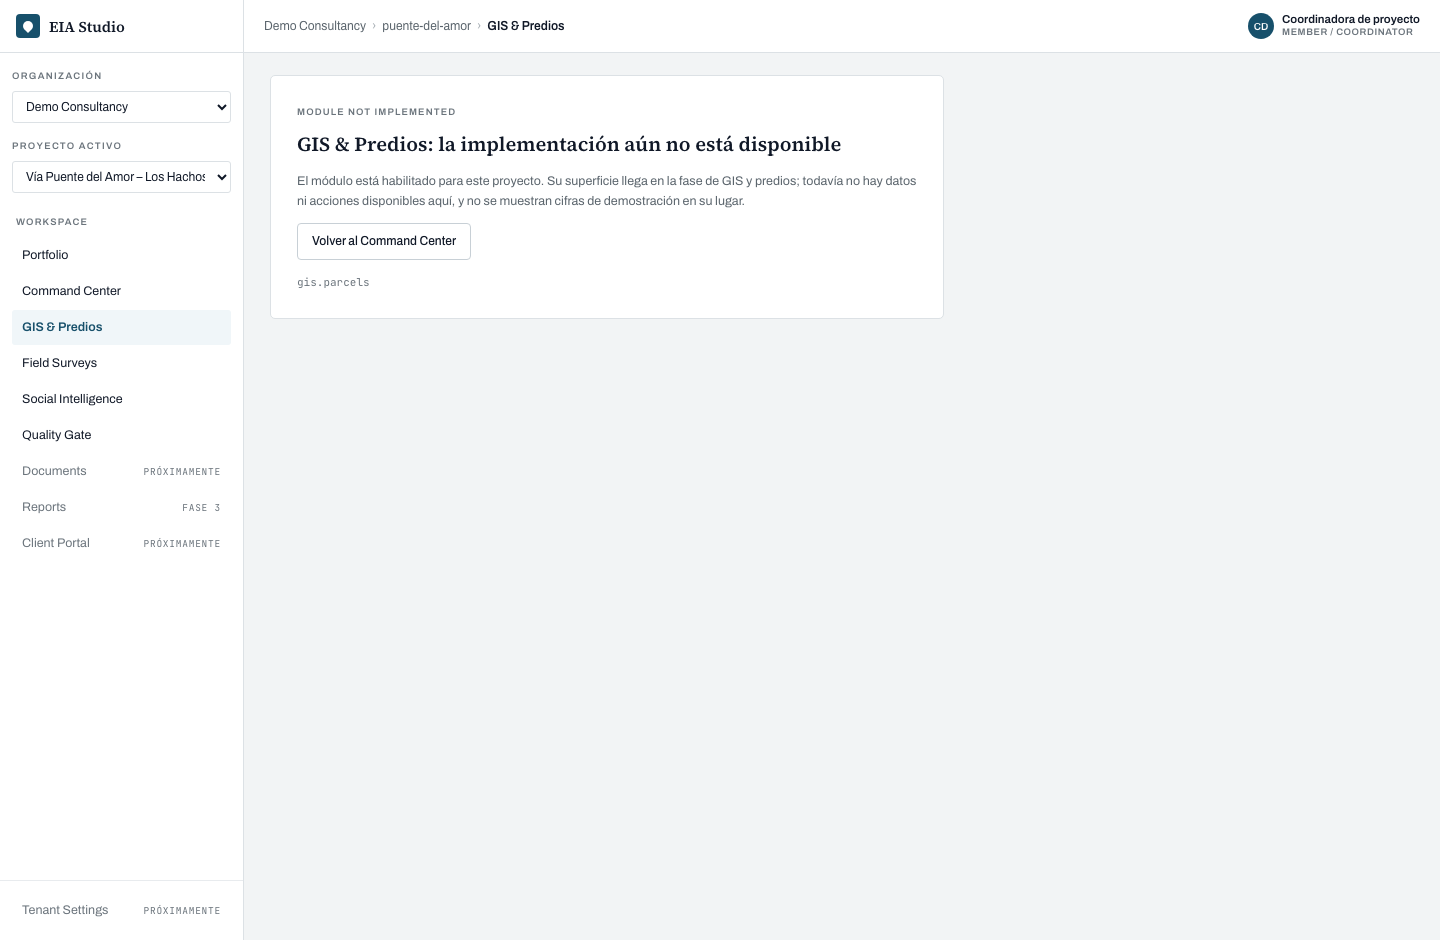
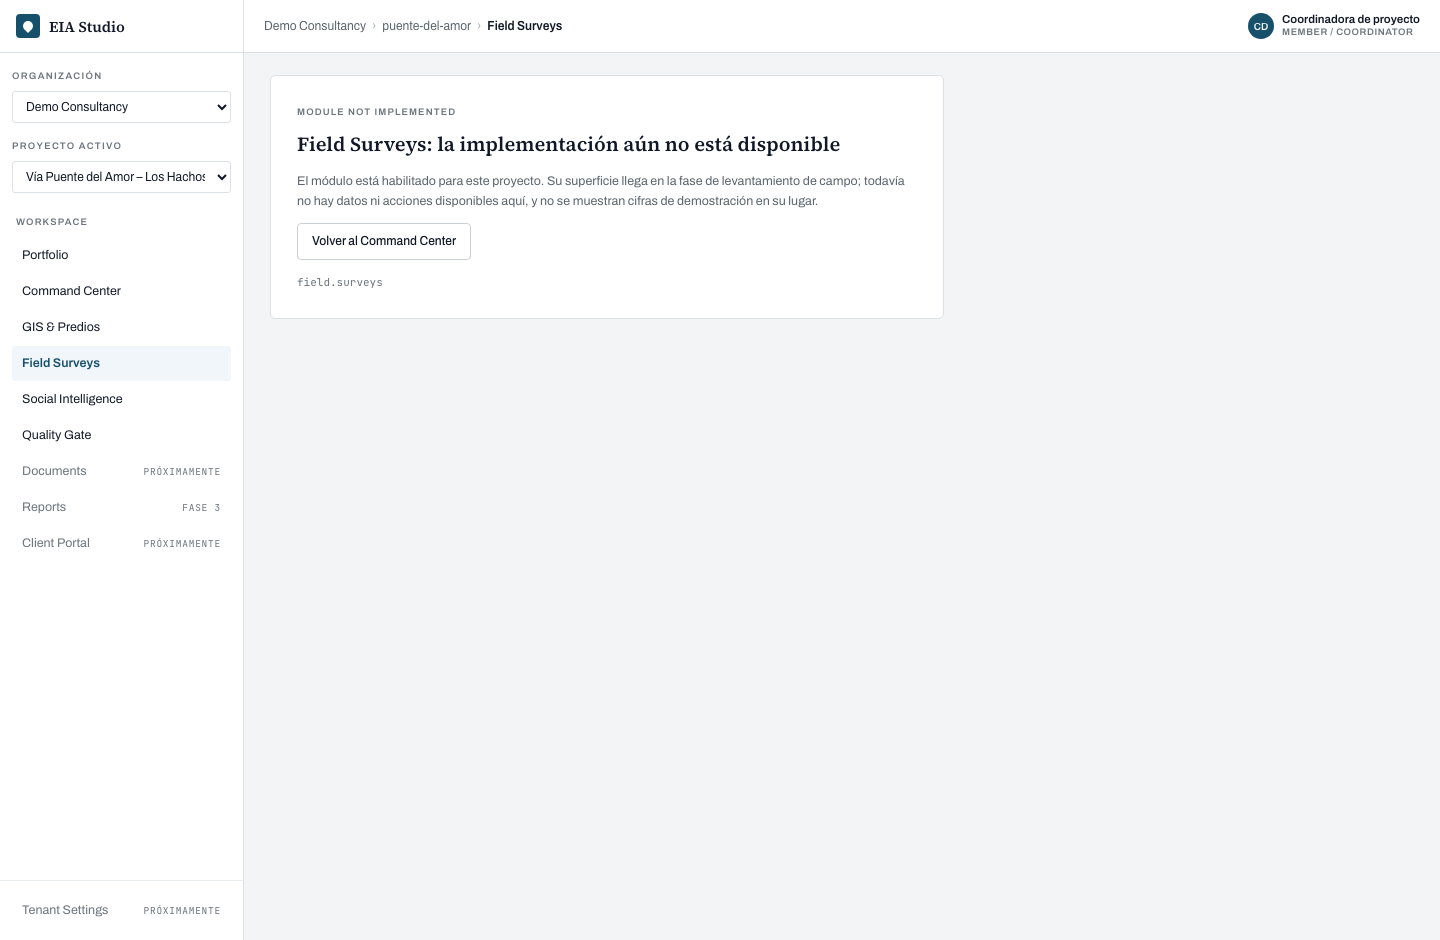
test(testing): add the GIS journey, its accessibility scans and the screenshots
The reviewer's path through the new surfaces, asserted as they would walk it:
Command Center to Explorer, one selection shared by map and table, filters that
move the count coherently, the layer legend saying what each layer is, the Parcel
Workspace and its provenance drawer, and a guessed parcel code answering 404.

One assertion is there to catch a specific future mistake. The historical universe
is 141 parcels and the generator produces 141 polygons; the test pins both badges
on the same screen — REAL_AGGREGATE on the KPI, SYNTHETIC on the territorial
summary — so a change that quietly relabels either one fails rather than shipping a
screen where a demo number reads as a study result.

axe now scans the Explorer and the Workspace. It found two real defects, both fixed
in the surfaces rather than suppressed here: focusable controls inside the
aria-hidden map, and aria-selected on a plain table row.

The Slice 1 "module not implemented" screenshot moves from /gis to /field, since
/gis is now a built surface.

Changed region(s): [[0.2188, 0.1234, 0.625, 0.216], [0.0, 0.3394, 0.0625, 0.4011], [0.3438, 0.0, 0.4062, 0.0309]]

diff --git a/e2e/gis.spec.ts b/e2e/gis.spec.ts
@@ -1,0 +1,149 @@
+import { expect, PROJECT, TENANT, test } from "./fixtures";
+
+/**
+ * The Slice 2 acceptance journey: Command Center → GIS / Parcel Explorer → shared selection →
+ * Parcel Workspace, exactly as a reviewer performs it.
+ */
+const GIS = `/t/${TENANT}/p/${PROJECT}/gis`;
+
+test.describe("GIS reviewer journey", () => {
+  test("navigate from the Command Center to the Parcel Explorer", async ({ page }) => {
+    // 1 · the rail now offers GIS as a real destination, not a placeholder
+    await page.goto(`/t/${TENANT}/p/${PROJECT}`);
+    const rail = page.getByRole("navigation", { name: "Navegación principal" });
+    await rail.getByRole("link", { name: "GIS & Predios" }).click();
+    await expect(page).toHaveURL(new RegExp(`${GIS}$`));
+
+    // 2 · tenant and project context survive the navigation (invariant 1)
+    await expect(page.getByLabel("Organización")).toHaveValue(TENANT);
+    await expect(page.getByLabel("Proyecto activo")).toHaveValue(PROJECT);
+    await expect(page.getByRole("navigation", { name: "Ruta de navegación" })).toContainText(
+      "GIS & Predios",
+    );
+
+    // 3 · the count states the whole set and the filtered subset
+    await expect(page.getByText(/141 predios · 141 en vista/)).toBeVisible();
+  });
+
+  test("the historical 141 and the synthetic 141 are not presented as the same fact", async ({
+    page,
+  }) => {
+    await page.goto(`/t/${TENANT}/p/${PROJECT}`);
+    const main = page.getByRole("main");
+
+    // The KPI is the concluded study's verifiable universe.
+    const kpi = main.locator("section", { hasText: "Universo estimado" }).first();
+    await expect(kpi).toContainText("REAL_AGGREGATE");
+
+    // The territorial summary counts the polygons we generated. Same number, different claim:
+    // it is labelled SYNTHETIC and says the layer is not cadastre.
+    const territory = main.locator("section", { hasText: "Resumen territorial" }).first();
+    await expect(territory).toContainText("141");
+    await expect(territory).toContainText("SYNTHETIC");
+    await expect(territory).toContainText("no es catastro");
+    await expect(territory).not.toContainText("REAL_AGGREGATE");
+  });
+
+  test("map and table are one selection", async ({ page }) => {
+    await page.goto(GIS);
+    const table = page.getByRole("table", { name: /Predios/ });
+
+    // 4 · the table is the accessible representation of the map: every parcel is a row
+    const row = table.getByRole("row").filter({ hasText: "PRED-ZAM-004" });
+    await expect(row).toBeVisible();
+
+    // 5 · selecting a row selects the parcel everywhere
+    await row.getByRole("button", { name: /Seleccionar/ }).click();
+    await expect(row.getByRole("button", { name: /Seleccionar/ })).toHaveAttribute(
+      "aria-pressed",
+      "true",
+    );
+    await expect(page.getByRole("status")).toContainText("PRED-ZAM-004");
+
+    // 6 · the contextual panel describes the selected parcel and nothing else
+    const panel = page.getByRole("complementary");
+    await expect(panel).toContainText("PRED-ZAM-004");
+    await expect(panel).toContainText("Predio seleccionado");
+
+    // 7 · exactly one parcel is selected at a time
+    const other = table.getByRole("row").filter({ hasText: "PRED-ZAM-005" });
+    await other.getByRole("button", { name: /Seleccionar/ }).click();
+    await expect(other.getByRole("button", { name: /Seleccionar/ })).toHaveAttribute(
+      "aria-pressed",
+      "true",
+    );
+    await expect(row.getByRole("button", { name: /Seleccionar/ })).toHaveAttribute(
+      "aria-pressed",
+      "false",
+    );
+  });
+
+  test("filters narrow table and count coherently", async ({ page }) => {
+    await page.goto(GIS);
+
+    // 8 · a status filter reduces the set to the parcels that carry that state
+    await page.getByRole("checkbox", { name: /En verificación/ }).check();
+    await expect(page.getByText(/141 predios · 2 en vista/)).toBeVisible();
+
+    // 9 · a search that matches nothing gives the empty-filter state, not an empty page
+    await page.getByRole("checkbox", { name: /En verificación/ }).uncheck();
+    await page.getByLabel("Buscar predio").fill("no-existe-este-codigo");
+    await expect(page.getByText(/Ningún predio coincide/)).toBeVisible();
+    await expect(page.getByText(/141 predios · 0 en vista/)).toBeVisible();
+  });
+
+  test("the layer legend states what each layer actually is", async ({ page }) => {
+    await page.goto(GIS);
+
+    // 10 · every map carries the layer-provenance legend (product language rules)
+    const legend = page.getByText("Procedencia de la capa");
+    await expect(legend).toBeVisible();
+    const main = page.getByRole("main");
+    await expect(main).toContainText("RECONSTRUCTED ALIGNMENT");
+    await expect(main).toContainText("eje aproximado, dibujado hasta recibir el GIS oficial");
+    await expect(main).toContainText("SYNTHETIC PARCELS");
+    await expect(main).toContainText("polígonos generados · no es catastro");
+    // The base map we do not have is not claimed.
+    await expect(main).not.toContainText("REAL BASE MAP");
+  });
+
+  test("open the Parcel Workspace from the selected parcel", async ({ page }) => {
+    await page.goto(GIS);
+    const table = page.getByRole("table", { name: /Predios/ });
+    const row = table.getByRole("row").filter({ hasText: "PRED-ZAM-004" });
+    await row.getByRole("button", { name: /Seleccionar/ }).click();
+
+    // 11 · the parcel is the master territorial workspace (invariant 7)
+    await page.getByRole("link", { name: "Abrir Parcel Workspace" }).click();
+    await expect(page).toHaveURL(/\/parcels\/PRED-ZAM-004$/);
+    await expect(page.getByRole("heading", { name: "PRED-ZAM-004", level: 1 })).toBeVisible();
+
+    // 12 · the summary states the territorial facts and their provenance
+    const main = page.getByRole("main");
+    await expect(main).toContainText("Ficha territorial");
+    await expect(main).toContainText("Punto medio del frente sobre la vía");
+    await expect(main.getByText("SYNTHETIC").first()).toBeVisible();
+
+    // 13 · tabs whose modules do not exist say so instead of inventing content
+    await page.getByRole("link", { name: "Visitas" }).click();
+    await expect(main).toContainText("Visitas: aún sin datos");
+    await expect(main).toContainText("field.surveys");
+  });
+
+  test("parcel provenance opens the same one drawer", async ({ page }) => {
+    await page.goto(`/t/${TENANT}/p/${PROJECT}/parcels/PRED-ZAM-004`);
+    await page.getByRole("link", { name: "Ver origen de los datos del predio" }).click();
+    const drawer = page.getByRole("dialog");
+    await expect(drawer).toBeVisible();
+    await expect(drawer).toContainText("Régimen");
+    await expect(drawer).toContainText("Simulación de demostración");
+    await expect(drawer).toContainText("corridor-generator@1");
+    await page.keyboard.press("Escape");
+    await expect(drawer).toBeHidden();
+  });
+
+  test("a parcel of another project is not reachable by guessing its code", async ({ page }) => {
+    const response = await page.goto(`/t/${TENANT}/p/${PROJECT}/parcels/PRED-ZAM-999`);
+    expect(response?.status()).toBe(404);
+  });
+});

diff --git a/e2e/screenshots.spec.ts b/e2e/screenshots.spec.ts
@@ -10,6 +10,7 @@ import { PROJECT, TENANT, test } from "./fixtures";
  * Run with `pnpm e2e:screenshots`; the files are committed under docs/screenshots/slice-1/.
  */
 const OUT = "docs/screenshots/slice-1";
+const OUT2 = "docs/screenshots/slice-2";
 
 test.describe("implementation screenshots", () => {
   test("portfolio", async ({ page }) => {
@@ -34,8 +35,35 @@ test.describe("implementation screenshots", () => {
   test("module enabled but not implemented", async ({ page }) => {
     // A capability the project *is* entitled to whose surface this slice has not built. A
     // capability it is not entitled to answers 404 and has nothing to capture (ADR-016).
-    await page.goto(`/t/${TENANT}/p/${PROJECT}/gis`);
+    await page.goto(`/t/${TENANT}/p/${PROJECT}/field`);
     await page.waitForLoadState("networkidle");
     await page.screenshot({ path: `${OUT}/04-module-not-implemented.png` });
+  });
+
+  test("parcel explorer", async ({ page }) => {
+    await page.goto(`/t/${TENANT}/p/${PROJECT}/gis`);
+    await page.getByRole("table").waitFor();
+    await page.waitForTimeout(1200);
+    await page.screenshot({ path: `${OUT2}/01-parcel-explorer.png` });
+  });
+
+  test("parcel explorer with a parcel selected", async ({ page }) => {
+    await page.goto(`/t/${TENANT}/p/${PROJECT}/gis`);
+    await page.getByRole("table").waitFor();
+    await page.waitForTimeout(1200);
+    await page
+      .getByRole("row")
+      .filter({ hasText: "PRED-ZAM-004" })
+      .getByRole("button", { name: /Seleccionar/ })
+      .click();
+    await page.waitForTimeout(600);
+    await page.screenshot({ path: `${OUT2}/02-parcel-selected.png` });
+  });
+
+  test("parcel workspace summary", async ({ page }) => {
+    await page.goto(`/t/${TENANT}/p/${PROJECT}/parcels/PRED-ZAM-004`);
+    await page.getByRole("heading", { name: "PRED-ZAM-004", level: 1 }).waitFor();
+    await page.waitForTimeout(1200);
+    await page.screenshot({ path: `${OUT2}/03-parcel-workspace.png`, fullPage: true });
   });
 });

diff --git a/e2e/accessibility.spec.ts b/e2e/accessibility.spec.ts
@@ -46,6 +46,20 @@ test.describe("accessibility smoke", () => {
     await scan(page);
   });
 
+  test("parcel explorer", async ({ page }) => {
+    await page.goto(`/t/${TENANT}/p/${PROJECT}/gis`);
+    // The map keeps a WebGL render loop alive, so `networkidle` never settles here; waiting for
+    // the table is the meaningful signal that the surface has rendered.
+    await expect(page.getByRole("table")).toBeVisible();
+    await scan(page);
+  });
+
+  test("parcel workspace", async ({ page }) => {
+    await page.goto(`/t/${TENANT}/p/${PROJECT}/parcels/PRED-ZAM-004`);
+    await expect(page.getByRole("heading", { name: "PRED-ZAM-004", level: 1 })).toBeVisible();
+    await scan(page);
+  });
+
   test("provenance drawer open", async ({ page }) => {
     await page.goto(`/t/${TENANT}/p/${PROJECT}`);
     await page.getByRole("link", { name: "Ver origen" }).first().click();

diff --git a/playwright.config.ts b/playwright.config.ts
@@ -34,7 +34,7 @@ export default defineConfig({
     {
       name: "coordinator",
       testMatch:
-        /journey\.spec\.ts|authorization\.spec\.ts|screenshots\.spec\.ts|accessibility\.spec\.ts/,
+        /journey.*\.spec\.ts|gis\.spec\.ts|authorization\.spec\.ts|screenshots\.spec\.ts|accessibility\.spec\.ts/,
       dependencies: ["setup"],
       use: {
         ...devices["Desktop Chrome"],
